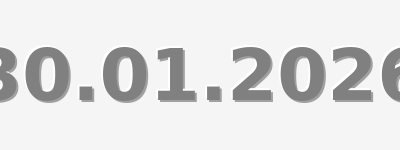
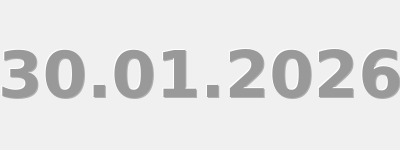
feat: regenerate date image with correct embossed style

Changed region(s): [[0.0, 0.2933, 1.0, 0.6933]]

diff --git a/create_date_image.js b/create_date_image.js
@@ -1,37 +1,37 @@
-const { createCanvas, registerFont } = require('canvas');
+const { createCanvas } = require('canvas');
 const fs = require('fs');
 const path = require('path');
 
-// Create canvas with similar dimensions
+// Create canvas matching original dimensions
 const width = 400;
 const height = 150;
 const canvas = createCanvas(width, height);
 const ctx = canvas.getContext('2d');
 
-// Fill background with light gray
-ctx.fillStyle = '#f5f5f5';
+// Fill background with very light gray (matching original)
+ctx.fillStyle = '#f0f0f0';
 ctx.fillRect(0, 0, width, height);
 
-// Text settings
+// Text settings - match original style
 const text = '30.01.2026';
-ctx.font = 'bold 72px Arial, sans-serif';
+ctx.font = 'bold 64px Arial, Helvetica, sans-serif';
 ctx.textAlign = 'center';
 ctx.textBaseline = 'middle';
 
 const x = width / 2;
 const y = height / 2;
-const offset = 2;
 
-// Draw shadow (down-right)
-ctx.fillStyle = '#a0a0a0';
-ctx.fillText(text, x + offset, y + offset);
+// Engraved/embossed effect matching original
+// Bottom-right shadow (darker)
+ctx.fillStyle = '#b0b0b0';
+ctx.fillText(text, x + 1, y + 1);
 
-// Draw highlight (up-left)
+// Top-left highlight (lighter)
 ctx.fillStyle = '#ffffff';
-ctx.fillText(text, x - offset, y - offset);
+ctx.fillText(text, x - 1, y - 1);
 
-// Draw main text (middle gray)
-ctx.fillStyle = '#808080';
+// Main text (medium gray - main color)
+ctx.fillStyle = '#999999';
 ctx.fillText(text, x, y);
 
 // Save the image
